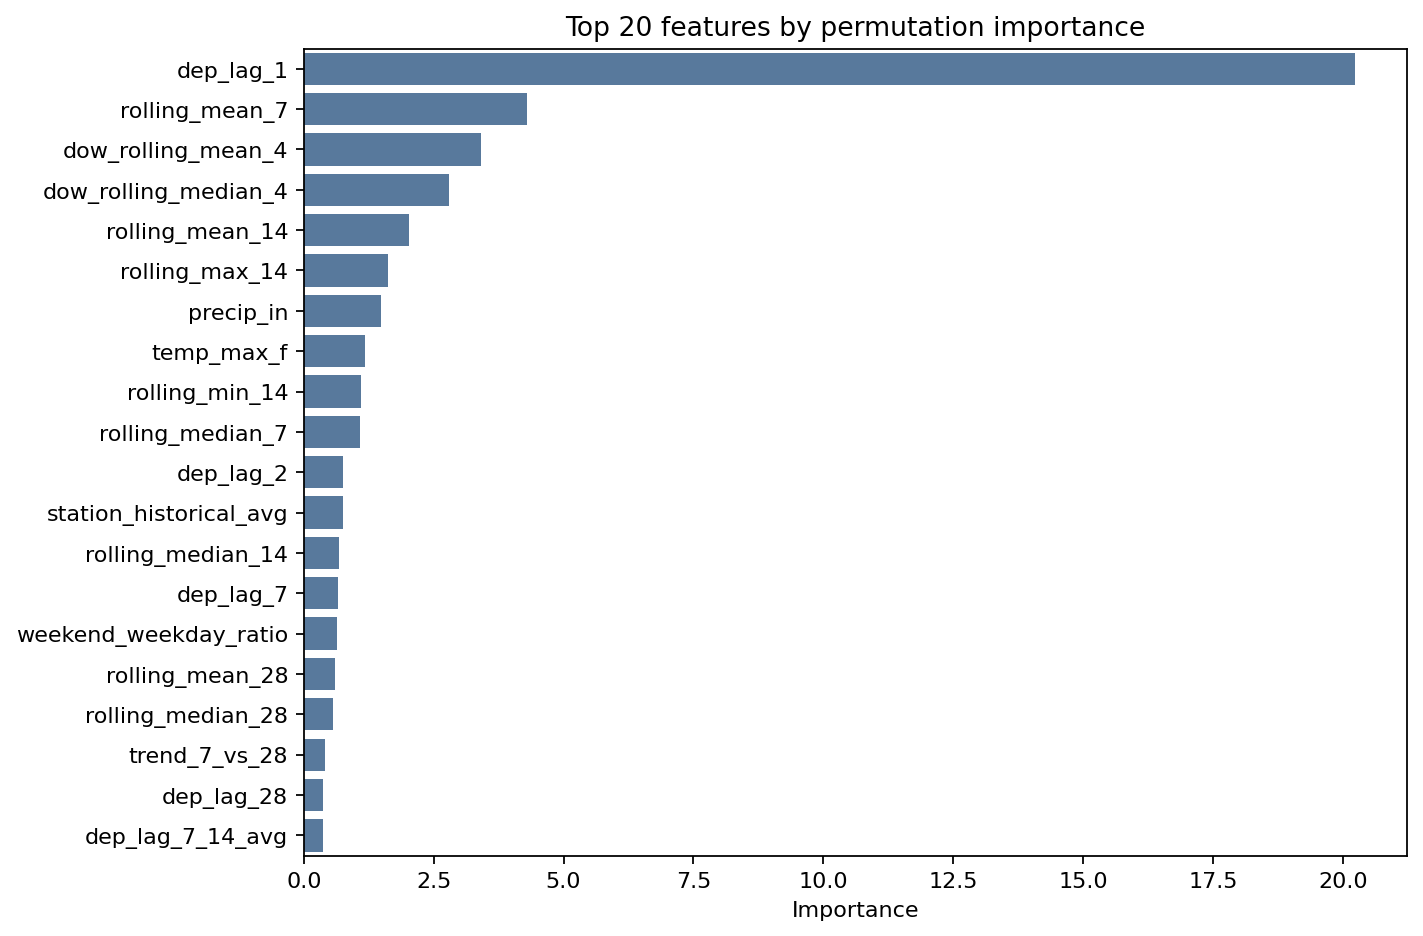
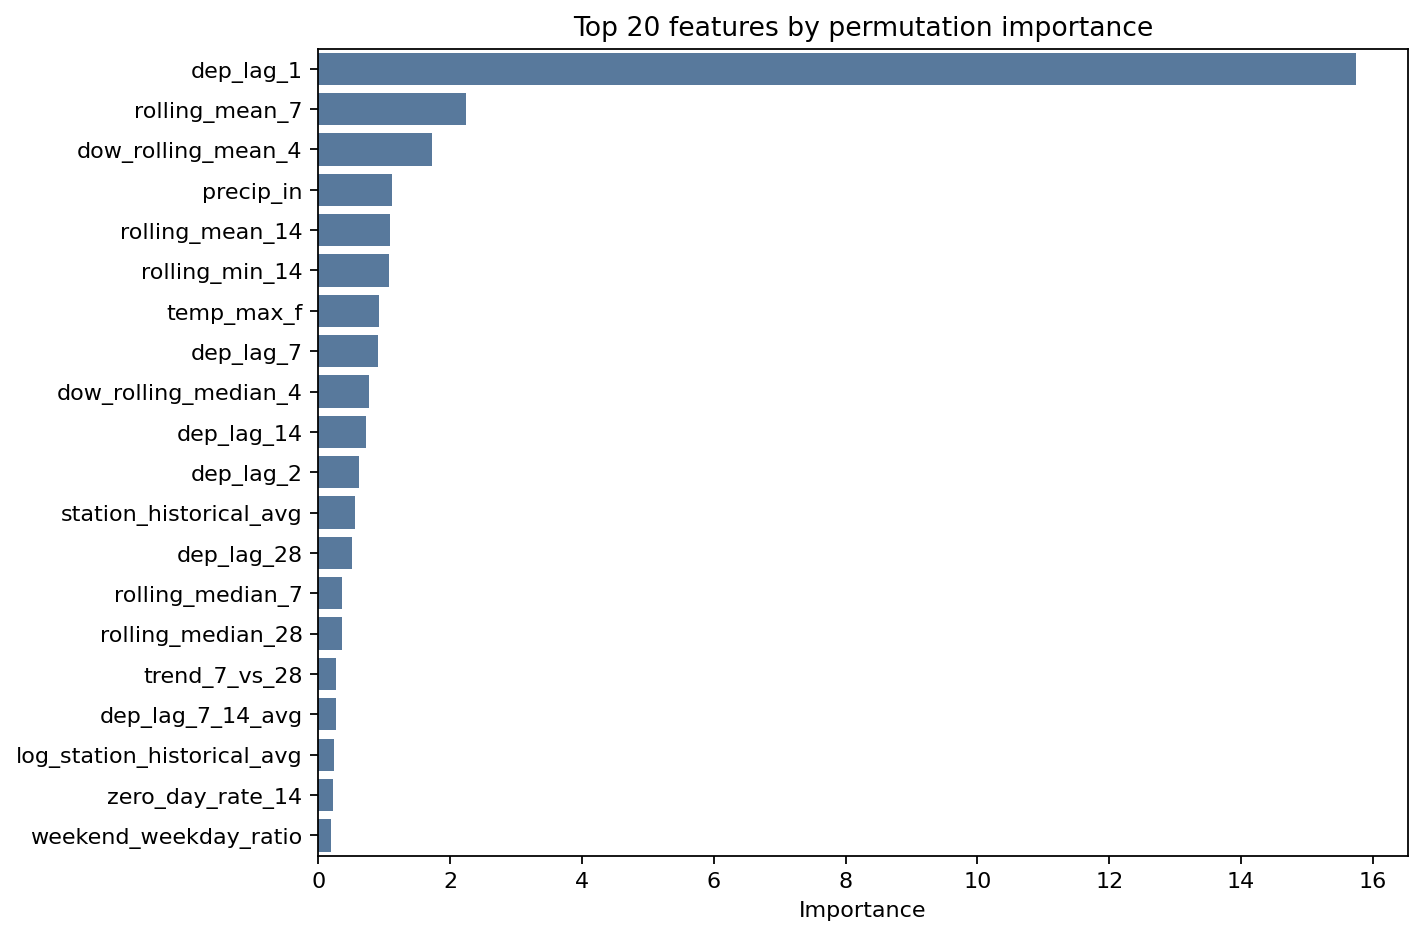
Tighten pipeline rigor and report framing

diff --git a/src/station_throughput_lab/reporting.py b/src/station_throughput_lab/reporting.py
@@ -336,7 +336,7 @@ network features are based on demand observed through the previous day.
 
 {leaderboard.head(5).to_markdown(index=False, floatfmt=".3f") if not leaderboard.empty else "(not available)"}
 
-### Feature Importance (top 15)
+### Feature Importance (calibration split, top 15)
 
 {feature_importance.head(15).to_markdown(index=False, floatfmt=".4f") if not feature_importance.empty else "(not available)"}
 
@@ -487,13 +487,13 @@ useful (low median AE) even when the *level* is off (high bias before calibratio
 
 ![Actual vs predicted](figures/actual_vs_predicted.png)
 
-## Cold-Start vs Mature Stations
+## Cold-Start vs Mature Stations (Post-Calibration)
 
 {cold_mature.to_markdown(index=False, floatfmt=".3f") if not cold_mature.empty else "(no cold-start stations in test set)"}
 
-The cold-start MAE gap is **{gap_pct:.1f}%** higher than mature stations.
-With hierarchical imputation, early-life stations get reasonable predictions when
-their own lag history is sparse rather than defaulting to zero or a global average.
+The cold-start MAE gap is **{gap_pct:.1f}%** higher than mature stations after
+calibration. This table measures final forecast performance for early-life
+stations, not the isolated effect of imputation alone.
 
 ## Accuracy by Borough
 
@@ -543,11 +543,11 @@ through minimum sample requirements at each level.
 
 ### 5. Cold-start imputation works but has limits
 
-Hierarchical spatial imputation (cluster → borough → city average) gives new
-stations reasonable predictions during sparse-history periods. The cold-start MAE gap
-({gap_pct:.1f}% higher than mature) is directionally useful but should be monitored.
-The gap narrows as the station accumulates history and its own lag features become
-available.
+Hierarchical spatial imputation (cluster → borough → city average), followed by
+the calibration layer, gives early-life stations reasonable final forecasts during
+sparse-history periods. The post-calibration cold-start MAE gap ({gap_pct:.1f}%
+higher than mature) is directionally useful but should be monitored. The gap
+narrows as the station accumulates history and its own lag features become available.
 """
 
     path = REPORTS_DIR / "throughput_lab_report.md"

diff --git a/src/station_throughput_lab/data.py b/src/station_throughput_lab/data.py
@@ -163,14 +163,20 @@ def build_daily_station_panel(
 
     print(f"Building daily station panel from {len(trip_paths)} trip files ...")
     frames = []
+    failed_files = []
     for path in tqdm(trip_paths, desc="Reading trip files"):
         try:
             raw = _read_trip_csv(path)
             df = _normalize_columns(raw)
             frames.append(df)
         except Exception as e:
-            print(f"  Skipping {path.name}: {e}")
-            continue
+            failed_files.append(f"{path.name}: {e}")
+
+    if failed_files:
+        raise RuntimeError(
+            "Failed to read required trip files: "
+            + "; ".join(failed_files)
+        )
 
     if not frames:
         raise RuntimeError("No trip data loaded.")

diff --git a/src/station_throughput_lab/modeling.py b/src/station_throughput_lab/modeling.py
@@ -134,9 +134,15 @@ def train_model(
     except Exception:
         leaderboard = pd.DataFrame()
 
-    # Feature importance
+    # Feature importance: use the held-out calibration split so the reported
+    # importances are not measured on the same rows used for fitting.
     try:
-        importance_data = train_data[feature_cols + [label]]
+        importance_data = df.loc[
+            df["split"] == "calibration",
+            feature_cols + [label],
+        ]
+        if importance_data.empty:
+            importance_data = train_data[feature_cols + [label]]
         if len(importance_data) > 50_000:
             importance_data = importance_data.sample(50_000, random_state=42)
         importance = predictor.feature_importance(

diff --git a/reports/throughput_lab_report.md b/reports/throughput_lab_report.md
@@ -90,25 +90,25 @@ network features are based on demand observed through the previous day.
 | WeightedEnsemble_L2 |      -8.535 | mean_absolute_error |           8.769 |    566.138 |                    0.004 |               0.018 |             2 | True        |           2 |
 | LightGBMXT_BAG_L2   |      -8.653 | mean_absolute_error |          13.105 |    847.819 |                    4.340 |             281.699 |             2 | True        |           3 |
 
-### Feature Importance (top 15)
+### Feature Importance (calibration split, top 15)
 
 | feature                |   importance |   stddev |   p_value |   n |   p99_high |   p99_low |
 |:-----------------------|-------------:|---------:|----------:|----:|-----------:|----------:|
-| dep_lag_1              |      20.2286 |   0.0655 |    0.0007 |   2 |    23.1786 |   17.2787 |
-| rolling_mean_7         |       4.2953 |   0.0785 |    0.0041 |   2 |     7.8292 |    0.7615 |
-| dow_rolling_mean_4     |       3.4122 |   0.0480 |    0.0032 |   2 |     5.5738 |    1.2506 |
-| dow_rolling_median_4   |       2.8044 |   0.0739 |    0.0059 |   2 |     6.1285 |   -0.5198 |
-| rolling_mean_14        |       2.0334 |   0.0415 |    0.0046 |   2 |     3.9001 |    0.1668 |
-| rolling_max_14         |       1.6230 |   0.0762 |    0.0106 |   2 |     5.0543 |   -1.8084 |
-| precip_in              |       1.4841 |   0.0387 |    0.0059 |   2 |     3.2283 |   -0.2601 |
-| temp_max_f             |       1.1705 |   0.1075 |    0.0207 |   2 |     6.0109 |   -3.6700 |
-| rolling_min_14         |       1.1028 |   0.0033 |    0.0007 |   2 |     1.2513 |    0.9543 |
-| rolling_median_7       |       1.0834 |   0.0443 |    0.0092 |   2 |     3.0789 |   -0.9120 |
-| dep_lag_2              |       0.7536 |   0.0256 |    0.0076 |   2 |     1.9053 |   -0.3982 |
-| station_historical_avg |       0.7486 |   0.0082 |    0.0025 |   2 |     1.1157 |    0.3816 |
-| rolling_median_14      |       0.6821 |   0.0562 |    0.0185 |   2 |     3.2137 |   -1.8495 |
-| dep_lag_7              |       0.6495 |   0.0553 |    0.0191 |   2 |     3.1392 |   -1.8402 |
-| weekend_weekday_ratio  |       0.6454 |   0.0265 |    0.0092 |   2 |     1.8361 |   -0.5453 |
+| dep_lag_1              |      15.7379 |   0.0195 |    0.0003 |   2 |    16.6147 |   14.8611 |
+| rolling_mean_7         |       2.2413 |   0.0320 |    0.0032 |   2 |     3.6797 |    0.8030 |
+| dow_rolling_mean_4     |       1.7248 |   0.0593 |    0.0077 |   2 |     4.3921 |   -0.9425 |
+| precip_in              |       1.1214 |   0.0260 |    0.0052 |   2 |     2.2924 |   -0.0497 |
+| rolling_mean_14        |       1.0836 |   0.0081 |    0.0017 |   2 |     1.4481 |    0.7191 |
+| rolling_min_14         |       1.0679 |   0.0116 |    0.0024 |   2 |     1.5898 |    0.5460 |
+| temp_max_f             |       0.9218 |   0.0449 |    0.0110 |   2 |     2.9423 |   -1.0988 |
+| dep_lag_7              |       0.9018 |   0.0552 |    0.0138 |   2 |     3.3859 |   -1.5823 |
+| dow_rolling_median_4   |       0.7707 |   0.0765 |    0.0223 |   2 |     4.2138 |   -2.6724 |
+| dep_lag_14             |       0.7292 |   0.0517 |    0.0159 |   2 |     3.0547 |   -1.5964 |
+| dep_lag_2              |       0.6203 |   0.0585 |    0.0212 |   2 |     3.2532 |   -2.0126 |
+| station_historical_avg |       0.5614 |   0.0583 |    0.0233 |   2 |     3.1860 |   -2.0631 |
+| dep_lag_28             |       0.5144 |   0.0217 |    0.0095 |   2 |     1.4899 |   -0.4611 |
+| rolling_median_7       |       0.3688 |   0.0681 |    0.0413 |   2 |     3.4346 |   -2.6969 |
+| rolling_median_28      |       0.3573 |   0.0257 |    0.0162 |   2 |     1.5149 |   -0.8004 |
 
 ![Feature importance](figures/feature_importance.png)
 
@@ -203,12 +203,12 @@ features, especially temperature, shift substantially.
 | dep_lag_2              |          0.0294 |        66.21 |       34.31 |       -48.2 | minimal          |
 | dep_lag_1              |          0.0286 |        66.25 |       34.68 |       -47.7 | minimal          |
 | rolling_mean_14        |          0.0269 |        65.4  |       38.44 |       -41.2 | minimal          |
-| rolling_median_14      |          0.0256 |        66.12 |       38.06 |       -42.4 | minimal          |
 | dep_lag_7              |          0.0219 |        66.25 |       38.2  |       -42.3 | minimal          |
-| rolling_max_14         |          0.0181 |        92.61 |       64.15 |       -30.7 | minimal          |
-| weekend_weekday_ratio  |          0.013  |         1.06 |        1.03 |        -2.6 | minimal          |
+| dep_lag_14             |          0.0145 |        66.07 |       43.43 |       -34.3 | minimal          |
+| rolling_median_28      |          0.0136 |        65.23 |       44.31 |       -32.1 | minimal          |
 | dow_rolling_mean_4     |          0.0101 |        64.55 |       46.08 |       -28.6 | minimal          |
 | dow_rolling_median_4   |          0.0097 |        65.27 |       46.32 |       -29   | minimal          |
+| dep_lag_28             |          0.009  |        65.95 |       54.49 |       -17.4 | minimal          |
 | station_historical_avg |          0.007  |        56.79 |       65.91 |        16.1 | minimal          |
 
 ![Feature drift heatmap](figures/feature_drift_heatmap.png)
@@ -242,16 +242,16 @@ useful (low median AE) even when the *level* is off (high bias before calibratio
 
 ![Actual vs predicted](figures/actual_vs_predicted.png)
 
-## Cold-Start vs Mature Stations
+## Cold-Start vs Mature Stations (Post-Calibration)
 
 |   rows |   stations |   avg_actual |   avg_predicted |    mae |   median_ae |   rmse |   wape |   nonzero_mape |   nonzero_mape_coverage |   bias | segment    |
 |-------:|-----------:|-------------:|----------------:|-------:|------------:|-------:|-------:|---------------:|------------------------:|-------:|:-----------|
 |    165 |          7 |       39.994 |          40.498 | 13.808 |       7.905 | 21.214 |  0.345 |          0.578 |                   1.000 |  0.013 | cold_start |
 |  65800 |       2131 |       34.925 |          36.252 | 10.785 |       4.400 | 20.253 |  0.309 |          0.530 |                   0.971 |  0.038 | mature     |
 
-The cold-start MAE gap is **28.0%** higher than mature stations.
-With hierarchical imputation, early-life stations get reasonable predictions when
-their own lag history is sparse rather than defaulting to zero or a global average.
+The cold-start MAE gap is **28.0%** higher than mature stations after
+calibration. This table measures final forecast performance for early-life
+stations, not the isolated effect of imputation alone.
 
 ## Accuracy by Borough
 
@@ -314,8 +314,8 @@ through minimum sample requirements at each level.
 
 ### 5. Cold-start imputation works but has limits
 
-Hierarchical spatial imputation (cluster → borough → city average) gives new
-stations reasonable predictions during sparse-history periods. The cold-start MAE gap
-(28.0% higher than mature) is directionally useful but should be monitored.
-The gap narrows as the station accumulates history and its own lag features become
-available.
+Hierarchical spatial imputation (cluster → borough → city average), followed by
+the calibration layer, gives early-life stations reasonable final forecasts during
+sparse-history periods. The post-calibration cold-start MAE gap (28.0%
+higher than mature) is directionally useful but should be monitored. The gap
+narrows as the station accumulates history and its own lag features become available.

diff --git a/README.md b/README.md
@@ -61,7 +61,7 @@ NYC Citi Bike public trip data:
 | Test Bias | +0.149 | **+0.038** |
 
 - MAPE is computed only on rows with nonzero actual departures; WAPE remains the primary percentage-error metric
-- Early-life stations: MAE gap ~28.0% higher than mature, with more uncertainty than established stations
+- Early-life stations: post-calibration MAE gap ~28.0% higher than mature, with more uncertainty than established stations
 - Top features: dep_lag_1, rolling_mean_7, DOW-specific rolling averages
 - 1 of 15 top features shows severe drift (temperature); lag and rolling demand features remain stable by JS divergence
 